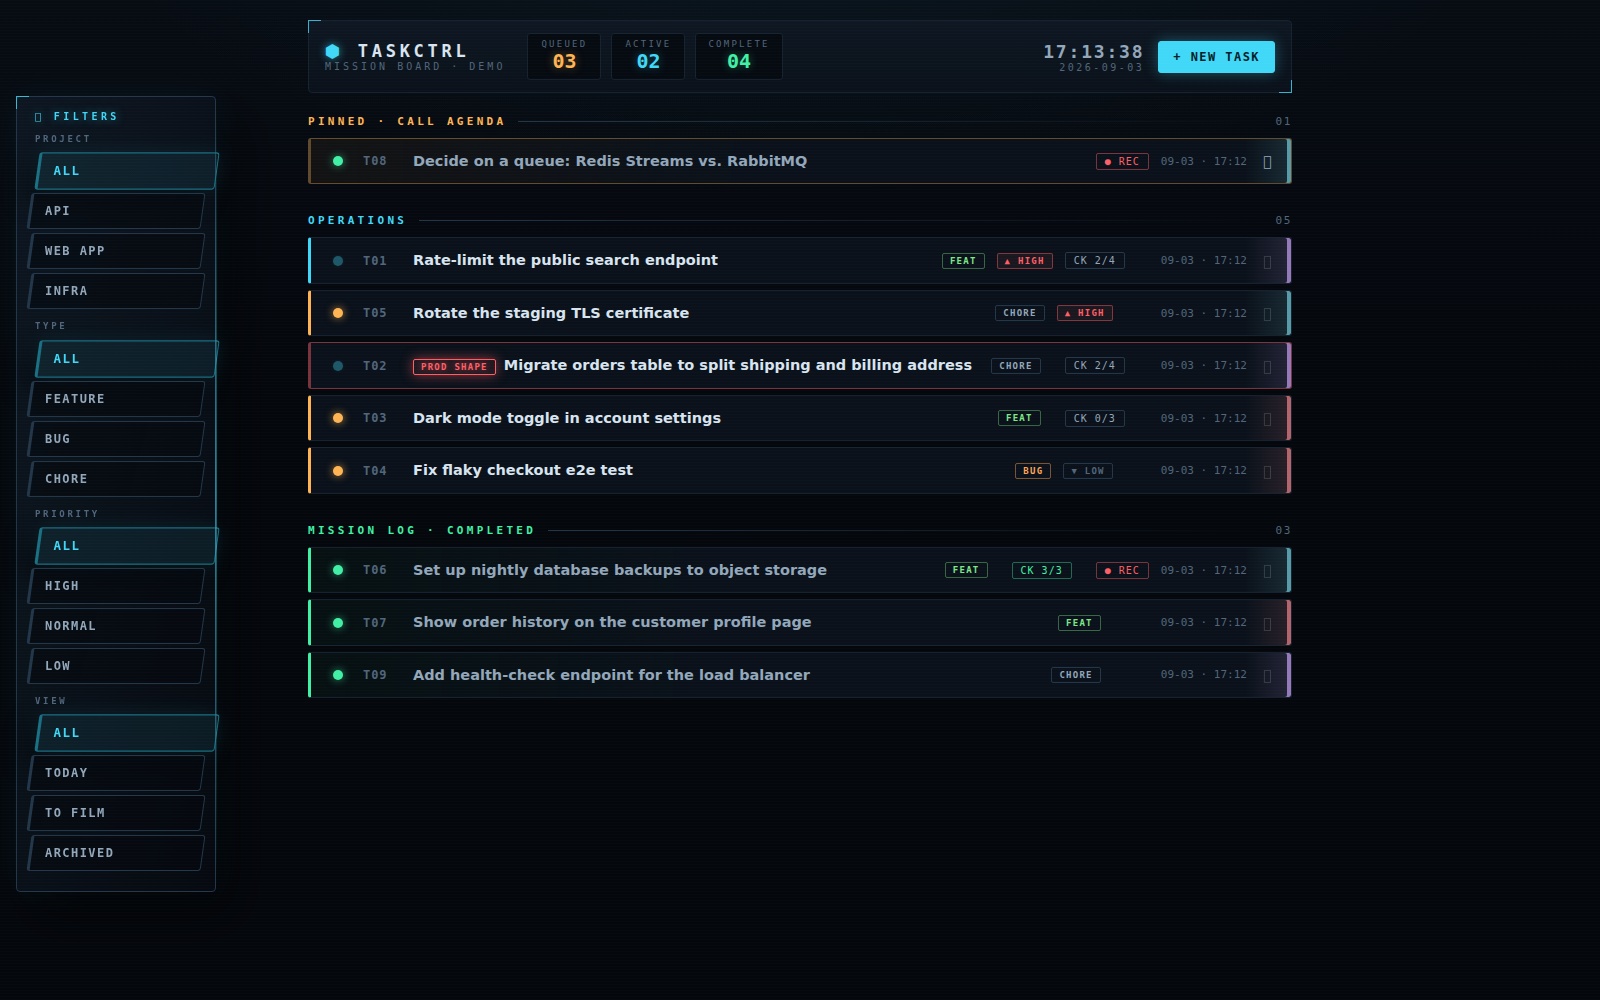
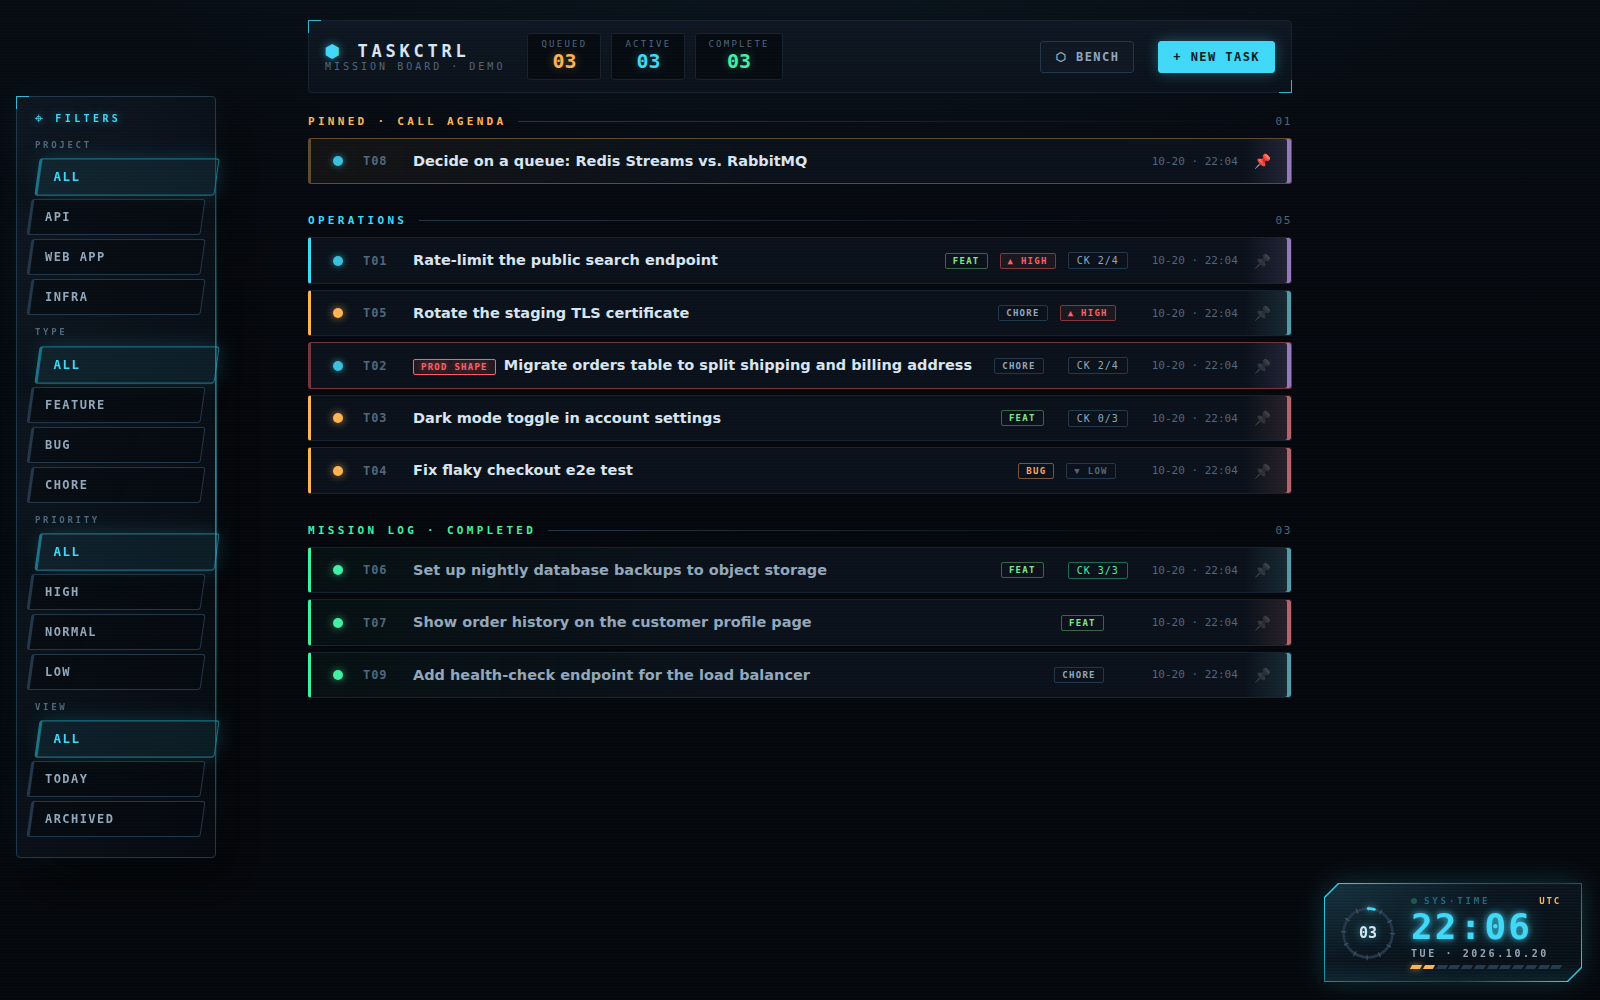
README: AI-first intro, bench media and toasts, clock HUD, fresh screenshots
Screenshots retaken from an isolated demo board (fake tasks, demo bench
folder) so they no longer show the retired To Film view or the old header
clock, and a bench page shot is added.

diff --git a/README.md b/README.md
@@ -3,6 +3,15 @@
 A single-file, zero-dependency task board with a sci-fi mission-console UI — built to be
 maintained by AI agents as much as by you.
 
+- **AI-first task board** — your coding agents open, update and close tasks themselves
+  through a tiny REST API, and write notes you can read out on a call. You watch it
+  happen live.
+- **A bench for the machine's files** — drop, preview, play and edit files on the box
+  your agents run on (a VM, a home server) from any browser on your LAN. Uploads never
+  overwrite, a save never silently clobbers an agent's newer edit, dropped HTML runs
+  sandboxed, and nothing can be deleted from the browser.
+- **One file you can read** — no build, no dependencies, no database server.
+
 One Python file. Python stdlib only. One JSON file as the database. No build step, no
 npm, no docker, nothing to configure.
 
@@ -54,6 +63,9 @@ write call-ready notes when it ships.
   page itself) shows up as a toast docked to the right edge within a few seconds:
   created / updated / deleted, task number, and what changed (`→ doing`,
   `2 subtasks ✓`, `priority`…). Click a toast to open the task.
+- **Clock HUD** — a game-style clock docked bottom-right: seconds ring, glowing HH:MM,
+  date, an hour-progress bar and a small glitch on the minute. Respects
+  reduced-motion and shrinks on phones.
 - **The HUD** — on wide screens the filters dock as a 3D game-menu side panel:
   mouse-tracking tilt, staggered fly-in, holo sweep, breathing active glow, and a
   chromatic glitch on click. Flat filter rows below 1280px. Exclusive filters for
@@ -65,10 +77,14 @@ write call-ready notes when it ships.
   files render as a page by default — inside a sandboxed frame (opaque origin, so a
   dropped page's scripts can't touch the board's storage or API; sibling images and
   stylesheets in the same folder still load) — with a `preview | text` toggle that's
-  remembered per browser, and anything text-like (`.txt`, `.log`, `.csv`, `.json`,
-  `.js`, `.py`, …) shows as text; other types offer a download. Text previews stop at
+  remembered per browser, videos (`.mp4`, `.webm`, `.mov`, `.m4v`) and audio (`.mp3`, `.m4a`, `.wav`, `.ogg`,
+  `.opus`, `.flac`, `.aac`) play in the pane with seeking (the server answers byte-range
+  requests), and anything text-like (`.txt`, `.log`, `.csv`, `.json`, `.js`, `.py`, …,
+  plus any dotfile and extensionless names like `Makefile`, `Dockerfile`, `LICENSE`)
+  shows as text; other types offer a download. Text previews stop at
   2 MB. A `⛶ full` button in the pane header maximizes the pane to the whole viewport
-  with its controls intact (`esc` or `⤡ restore` brings the split view back). Any text preview has
+  with its controls intact (`esc` or `⤡ restore` brings the split view back); the
+  maximized state rides in the URL (`&full=1`), so a reload keeps it. Any text preview has
   an `✎ edit` button: the pane takes over the whole viewport as an editor, `Ctrl+S` or `save` writes the file
   back in place (only existing files, same 2 MB cap, written to a temp file and swapped
   in). A save is conditional on the file not having changed on disk since it was
@@ -86,7 +102,8 @@ write call-ready notes when it ships.
   their original name (a clash gets a `-2`, `-3` suffix, never an overwrite), or drag
   a file straight onto a folder row. Folder and open file live in the URL
   (`/bench?p=sub/folder&f=name`) so back/forward and bookmarks work; a bare `/bench`
-  opens the bench root. Real upload progress per file, a toast on arrival, and a
+  opens the bench root. Real upload progress per file, a toast on arrival (with a `⧉ copy name` button;
+  hovering any toast holds it on screen), and a
   listing sorted folders first then A→Z, with a `⤓` download link per row. Folders can't be created from
   the browser and delete is deliberately absent — those are shell jobs.
 - **Self-updating** — every install keeps itself on `origin/main`: the server fetches
@@ -100,6 +117,8 @@ write call-ready notes when it ships.
 - **REST API** — everything an agent needs, no auth, meant for localhost/LAN use
 
 ![Task view](docs/task.png)
+
+![The bench page](docs/bench.png)
 
 ![Toasts from agent activity](docs/toasts.png)
 
@@ -133,7 +152,7 @@ repo — see **[SETUP.md](SETUP.md)**, or just let Claude do it:
 | `GET /api/events?since=<seq>`        | recent mutations (in-memory, powers the toasts)       |
 | `GET /api/bench[?path=sub/folder]`   | bench folder listing (folders first, then A→Z) plus `parent`; `path=~/a/b` lists a folder under the home dir, each file carries a `stamp` for conditional saves |
 | `POST /api/bench`                    | drop a file in bench — raw bytes, name in `X-Filename` (URL-encoded), optional existing subfolder in `X-Bench-Dir`; no size cap |
-| `GET /bench/<path/to/file>`          | download a bench file; `?inline=1` serves it for the preview pane (images as-is, everything else as `text/plain`); `?raw=1` serves it with its real type for the rendered preview, `.html`/`.svg` behind a `Content-Security-Policy: sandbox` header; `/bench/~/a/b/file` reaches the home tree |
+| `GET /bench/<path/to/file>`          | download a bench file; `?inline=1` serves it for the preview pane (images, video and audio as-is, everything else as `text/plain`); `?raw=1` serves it with its real type for the rendered preview, `.html`/`.svg` behind a `Content-Security-Policy: sandbox` header; `/bench/~/a/b/file` reaches the home tree; single byte ranges (`Range: bytes=a-b`) get a `206` so media can seek |
 | `GET /api/version`                   | self-update state: `current` · `behind` · `held` · `updating` · `error`, running commit, boot time, commits behind and their messages |
 | `POST /api/update`                   | check `origin/main` now and, if behind and clean, pull and restart (works even with auto-update off) |
 | `PUT /bench/<path/to/file>`          | overwrite an existing file with the raw body (2 MB cap, atomic); `X-Bench-Stamp: <stamp from the listing>` makes it conditional → 409 if the file changed since |
